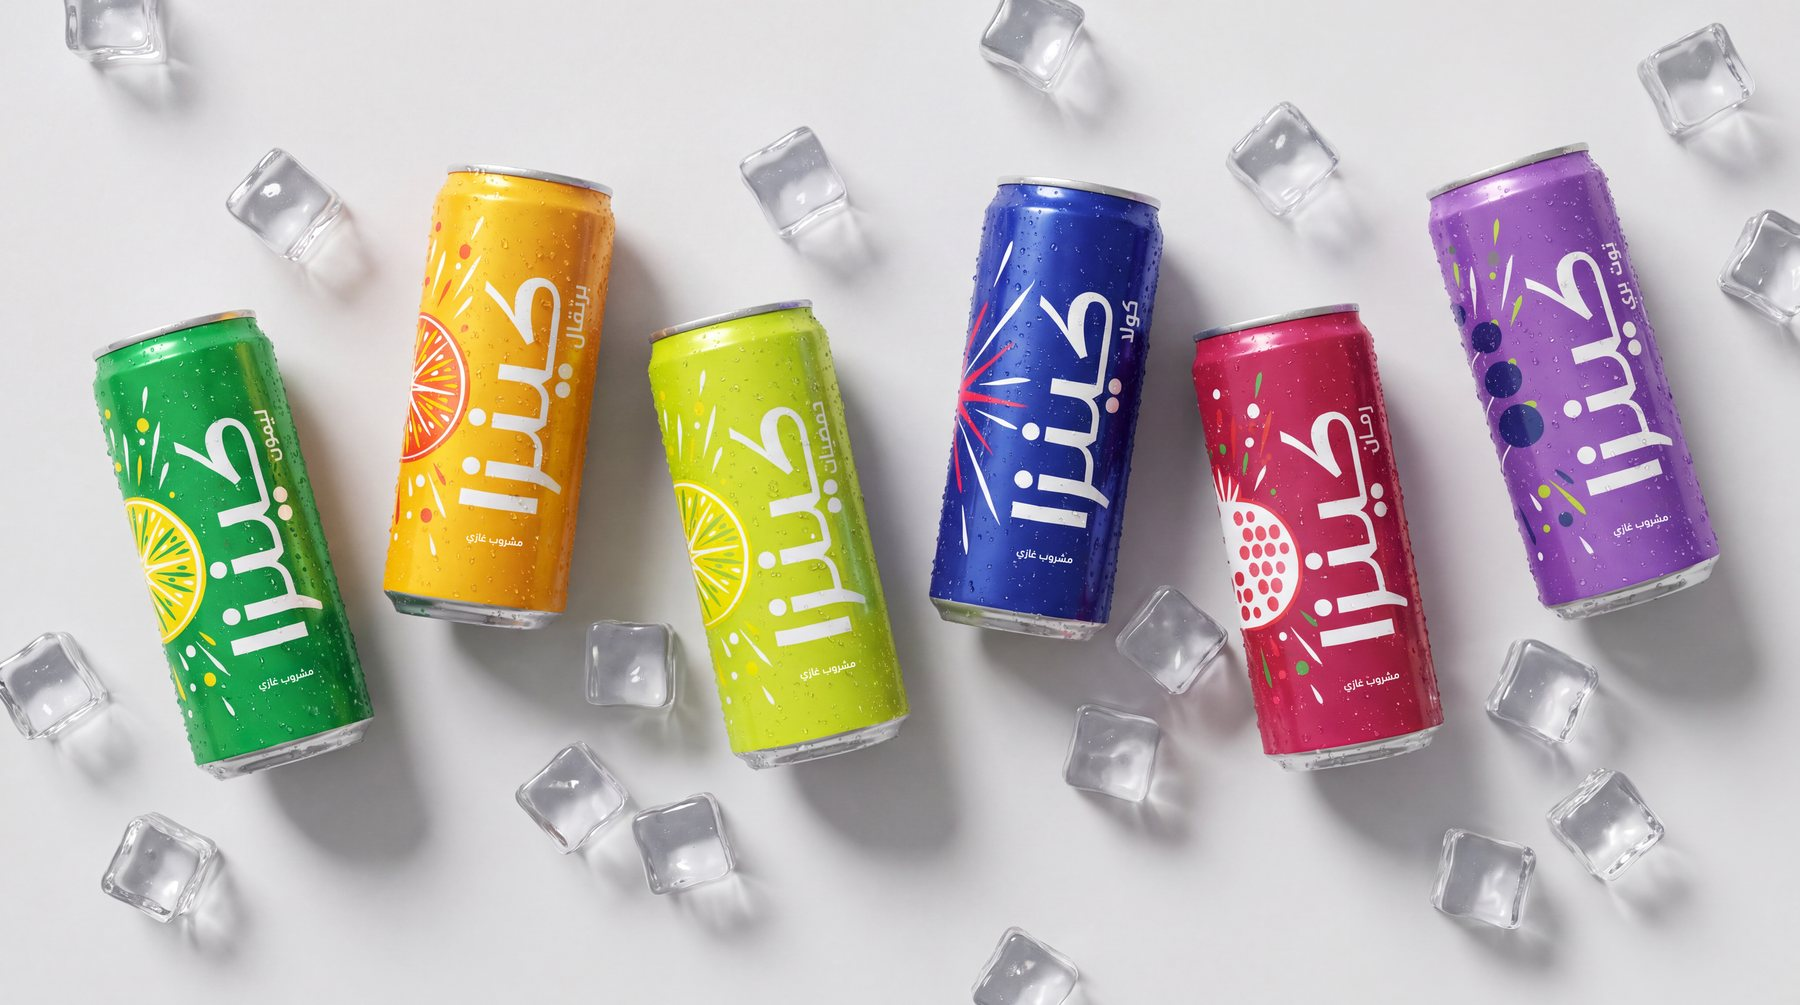
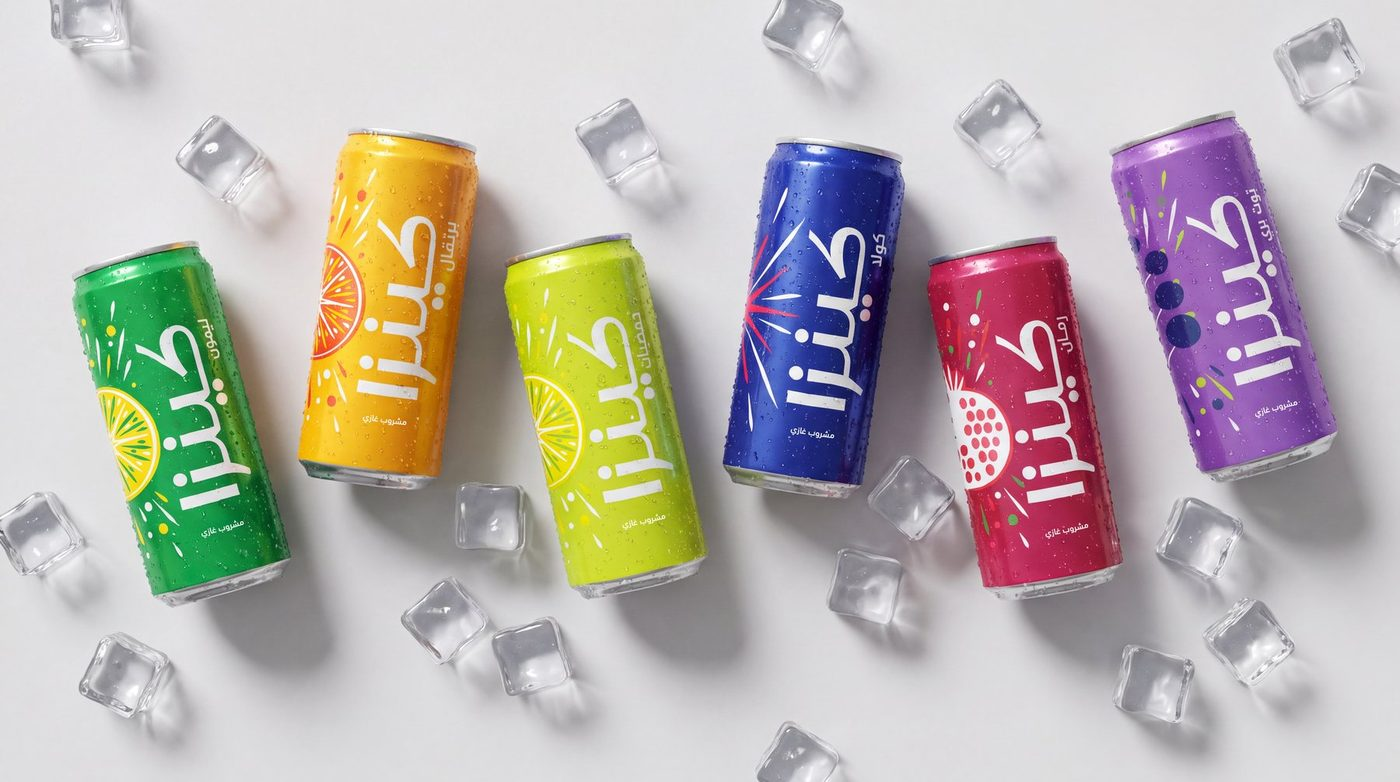
v4: pattern wall before the copy, people as three sliding columns, cans on Marina's grey
People follow yoyoyo's grid: three columns of 4:5 portraits sliding past each other in a
100svh window, two on a phone. Nine flavour patterns fill one screen before the typography
section, diet cola and lemon zero cropped from the brand elements deck so all nine are real
art. Can tiles sit on Marina's own grey, and a hover now shows the pattern as well as a tap.
Still-life files cut to 1400px: the band never needed 1800.

Changed region(s): [[0.0614, 0.491, 0.1229, 0.6445], [0.215, 0.399, 0.2457, 0.4297]]

diff --git a/v4/index.html b/v4/index.html
@@ -25,6 +25,7 @@
      motion: marquees run, cans flip, everything else fades up once when it enters the viewport. */
   :root {
     --blue: #314da0; --navy: #001489; --pink: #e8235a; --paper: #e9e7dc; --white: #ffffff;
+    --grey: #ededed; /* the ground under Marina's own can renders */
     --bg: var(--navy); --ink: var(--white);
     --rule: rgba(0, 20, 137, .14);
     --gap: 12px;
@@ -121,7 +122,7 @@
   .photos { direction: ltr; overflow: clip; background: var(--white); padding: 0; }
   .photos__in { display: flex; gap: var(--gap); width: max-content; animation: strip 40s linear infinite; }
   .photos__in:hover { animation-play-state: paused; }
-  .photos figure { flex: none; height: 40svh; min-height: 220px; aspect-ratio: 16 / 9; overflow: clip; background: var(--paper); }
+  .photos figure { flex: none; height: 44svh; min-height: 220px; aspect-ratio: 16 / 9; overflow: clip; background: var(--paper); }
   .photos img { width: 100%; height: 100%; object-fit: cover; }
 
   /* ============ 3. pop typography: stand-in for the client's video, word only ============ */
@@ -145,22 +146,36 @@
   .cans.is-drag { cursor: grabbing; }
   .cans__in { display: flex; gap: var(--gap); width: max-content; }
   .tile img { -webkit-user-drag: none; }
-  .tile { position: relative; flex: none; height: min(76svh, 720px); width: auto; aspect-ratio: 9 / 16; background: var(--paper); overflow: clip; isolation: isolate; }
+  .tile { position: relative; flex: none; height: min(76svh, 720px); width: auto; aspect-ratio: 9 / 16; background: linear-gradient(180deg, #f5f5f5, #e4e4e4); overflow: clip; isolation: isolate; }
   .tile__pat { position: absolute; inset: 0; z-index: -1; background: var(--tb); display: grid; place-items: center; opacity: 0; scale: .6; transition: opacity .4s var(--ease-out), scale .55s var(--ease-out); }
   .tile__pat svg { width: 150%; height: auto; }
   .tile[aria-pressed="true"] .tile__pat { opacity: 1; scale: 1; }
+  @media (hover: hover) { .tile:hover .tile__pat { opacity: 1; scale: 1; } .tile:hover img { transform: scale(1.04); } }
   .tile[aria-pressed="true"] .tile__pat svg { animation: slow-spin 60s linear infinite; }
   .tile img { position: absolute; inset: 0; margin: auto; height: 88%; width: auto; max-width: 96%; object-fit: contain; transition: transform .45s var(--ease-out); }
   .tile[aria-pressed="true"] img { transform: scale(1.04); }
   .tile .tile__pat img { position: static; width: 100%; height: 100%; max-width: none; object-fit: cover; transform: none; }
 
-  /* 5. people: twelve tall portraits in one fast band, edge to edge */
-  .sec--people { padding-inline: 0; }
-  .people { direction: ltr; overflow: clip; }
-  .people__in { display: flex; gap: var(--gap); width: max-content; animation: strip 56s linear infinite; }
-  .people__in:hover { animation-play-state: paused; }
-  .people figure { flex: none; height: 84svh; min-height: 380px; aspect-ratio: 4 / 5; overflow: clip; background: var(--paper); }
-  .people img { width: 100%; height: 100%; object-fit: cover; }
+  /* 5. the pattern wall: nine flavours on one screen, straight from the brand deck */
+  .grid9 { height: 100svh; min-height: 520px; overflow: clip; background: var(--white); }
+  .grid9__in { display: grid; grid-template-columns: repeat(3, minmax(0, 1fr)); grid-template-rows: repeat(3, minmax(0, 1fr)); gap: var(--gap); height: 100%; padding: var(--gap); }
+  .grid9 figure { overflow: clip; background: var(--paper); }
+  .grid9 img { width: 100%; height: 100%; object-fit: cover; }
+
+  /* 6. people: three columns of tall portraits sliding past each other, after yoyoyo's grid */
+  .sec--people { padding: 0; min-height: 0; }
+  .wall { direction: ltr; display: grid; grid-template-columns: repeat(3, minmax(0, 1fr)); gap: var(--gap); height: 100svh; min-height: 520px; overflow: clip; padding-inline: var(--gap); }
+  .wall__col { will-change: transform; }
+  .wall__col:nth-child(odd) { animation: wall-up 20s linear infinite; }
+  .wall__col:nth-child(even) { animation: wall-down 20s linear infinite; }
+  .wall__col:nth-child(2) { animation-delay: -7s; }
+  .wall__col:nth-child(3) { animation-delay: -13s; }
+  .wall:hover .wall__col { animation-play-state: paused; }
+  @keyframes wall-up { from { transform: translateY(0); } to { transform: translateY(-50%); } }
+  @keyframes wall-down { from { transform: translateY(-50%); } to { transform: translateY(0); } }
+  /* the gap lives on the figure, not on the column: only then is half the stack exactly one copy */
+  .wall figure { aspect-ratio: 4 / 5; margin-bottom: var(--gap); overflow: clip; background: var(--paper); }
+  .wall img { width: 100%; height: 100%; object-fit: cover; }
 
   /* 6. the statement, one line, before the footer */
   .say { background: var(--white); color: var(--blue); padding: var(--s6) var(--pad); min-height: 100svh; display: grid; place-items: center; }
@@ -190,8 +205,9 @@
     .strip__in { animation-duration: 90s; }
     .photos__in { animation-duration: 60s; }
     .photos figure { height: 32svh; min-height: 180px; }
-    .people__in { animation-duration: 42s; }
-    .people figure { height: 70svh; min-height: 320px; }
+    .wall { padding-inline: 0; height: 86svh; }
+    .wall__col:nth-child(odd) { animation-duration: 16s; }
+    .wall__col:nth-child(even) { animation-duration: 16s; }
     .sec { min-height: 0; padding-block: var(--s6); }
     .say { min-height: 0; padding-block: var(--s7); }
     .tile { height: min(62svh, 470px); }
@@ -199,8 +215,10 @@
   }
   @media (prefers-reduced-motion: reduce) {
     *, *::before, *::after { animation: none !important; transition-duration: .01s !important; }
-    .photos__in, .strip__in, .people__in { animation: none !important; }
-    .photos, .strip, .people { overflow-x: auto; }
+    .photos__in, .strip__in { animation: none !important; }
+    .photos, .strip { overflow-x: auto; }
+    .wall { height: auto; }
+    .wall .dup { display: none; }
     .rv { opacity: 1; translate: 0 0; scale: 1; }
     .pop__word { opacity: 1; }
   }
@@ -242,7 +260,12 @@
 
 <div class="strip strip--rev" aria-hidden="true"><div class="strip__in label" id="strip2"></div></div>
 
-<!-- 3. the brand lines, one word at a time. stand-in for the client's typography film:
+<!-- 3. the pattern wall: nine flavours on one screen, before the copy (Marina, 2026-09-07 call) -->
+<section class="grid9" id="patterns" aria-hidden="true"><div class="grid9__in" id="patternGrid"></div></section>
+
+<div class="strip" aria-hidden="true"><div class="strip__in label" id="strip4" lang="en"></div></div>
+
+<!-- 4. the brand lines, one word at a time. stand-in for the client's typography film:
      drop it in as <video class="pop__film" ...> inside this section and it covers the word -->
 <section class="pop" id="pop">
   <h2 class="pop__word display" id="popWord">Dare to try at your fullest</h2>
@@ -250,17 +273,17 @@
 
 <div class="strip" aria-hidden="true"><div class="strip__in label" id="strip3" lang="en"></div></div>
 
-<!-- 4. ten cans on paper rectangles, sliding. tap a can and its graphic pattern fills the tile -->
+<!-- 5. ten cans on grey, sliding. hover or tap a can and its graphic pattern fills the tile -->
 <section class="sec sec--flavors" id="flavors">
   <div class="cans rv"><div class="cans__in" id="tiles"></div></div>
 </section>
 
-<!-- 5. people: Marina's twelve lifestyle shots, one fast band -->
+<!-- 6. people: Marina's twelve lifestyle shots, three columns sliding past each other -->
 <section class="sec sec--people" id="life">
-  <div class="people"><div class="people__in" id="lifeIn"></div></div>
+  <div class="wall" id="lifeIn"></div>
 </section>
 
-<!-- 6. the one statement, blown up -->
+<!-- 7. the one statement, blown up -->
 <section class="say">
   <h2 class="display rv" data-i18n="say">The fastest growing Saudi beverage brand in the world</h2>
 </section>
@@ -332,7 +355,8 @@
   // still-life product shots from Marina's 2026-09-06 WeTransfer
   const PRODUCTS = ['still/still-1.jpg', 'still/still-2.jpg', 'still/still-3.jpg', 'still/still-4.jpg', 'still/still-5.jpg', 'still/still-6.jpg'];
   // flavors with the client's real graphic pattern (assets/pattern). The other three still use the drawn stand-in
-  const PATTERN = new Set(['cola', 'blackcurrant', 'citrus', 'lemon', 'orange', 'pomegranate', 'cocktail']);
+  const PATTERN = new Set(['cola', 'diet', 'lemon', 'lemonzero', 'orange', 'citrus', 'blackcurrant', 'pomegranate', 'cocktail']);
+  const WALL9 = ['cola', 'diet', 'lemon', 'lemonzero', 'orange', 'citrus', 'blackcurrant', 'pomegranate', 'cocktail'];
   // Marina's twelve lifestyle shots, 2026-09-07. These replaced the other-brand mood references
   const LIFE = Array.from({ length: 12 }, (_, i) => `people-real/people-${String(i + 1).padStart(2, '0')}.jpg`);
   const COUNTRIES = ['Saudi Arabia', 'UAE', 'Kuwait', 'Bahrain', 'Qatar', 'Oman', 'Jordan', 'Iraq', 'Egypt', 'Morocco', 'Sudan', 'Yemen', 'Lebanon', 'Pakistan', 'Malaysia', 'Indonesia', 'United Kingdom', 'Germany', 'France', 'Turkey', 'Nigeria', 'Kenya', 'South Africa', 'Australia', 'Canada', 'USA', 'Brazil', 'India', 'Bangladesh', 'Sri Lanka'];
@@ -465,11 +489,21 @@
     document.getElementById('strip1').innerHTML = countries.repeat(2);
     document.getElementById('strip2').innerHTML = msgs.repeat(4);
     document.getElementById('strip3').innerHTML = countries.repeat(2);
+    document.getElementById('strip4').innerHTML = countries.repeat(2);
   }
   // two copies of everything that marquees: the keyframe travels exactly half the row, so it never jumps
   const fig = src => `<figure><img src="../assets/${encodeURI(src)}" alt="" loading="lazy" /></figure>`;
   document.getElementById('productsIn').innerHTML = PRODUCTS.map(fig).join('').repeat(4);
-  document.getElementById('lifeIn').innerHTML = LIFE.map(fig).join('').repeat(2);
+  document.getElementById('patternGrid').innerHTML = WALL9.map((id, i) => `<figure class="rv" style="--i:${i}"><img src="../assets/pattern/${id}.jpg" alt="" loading="lazy" /></figure>`).join('');
+  (function () {
+    const cols = matchMedia('(max-width: 760px)').matches ? 2 : 3;
+    const wall = document.getElementById('lifeIn');
+    wall.style.gridTemplateColumns = `repeat(${cols}, minmax(0, 1fr))`;
+    wall.innerHTML = Array.from({ length: cols }, (_, c) => {
+      const own = LIFE.filter((_, i) => i % cols === c).map(fig).join('');
+      return `<div class="wall__col">${own}${own.replace(/<figure>/g, '<figure class="dup">')}</div>`;
+    }).join('');
+  })();
 
   /* ---------- 3. pop statements, cycling while on screen. the client's video replaces this ---------- */
   (function () {
